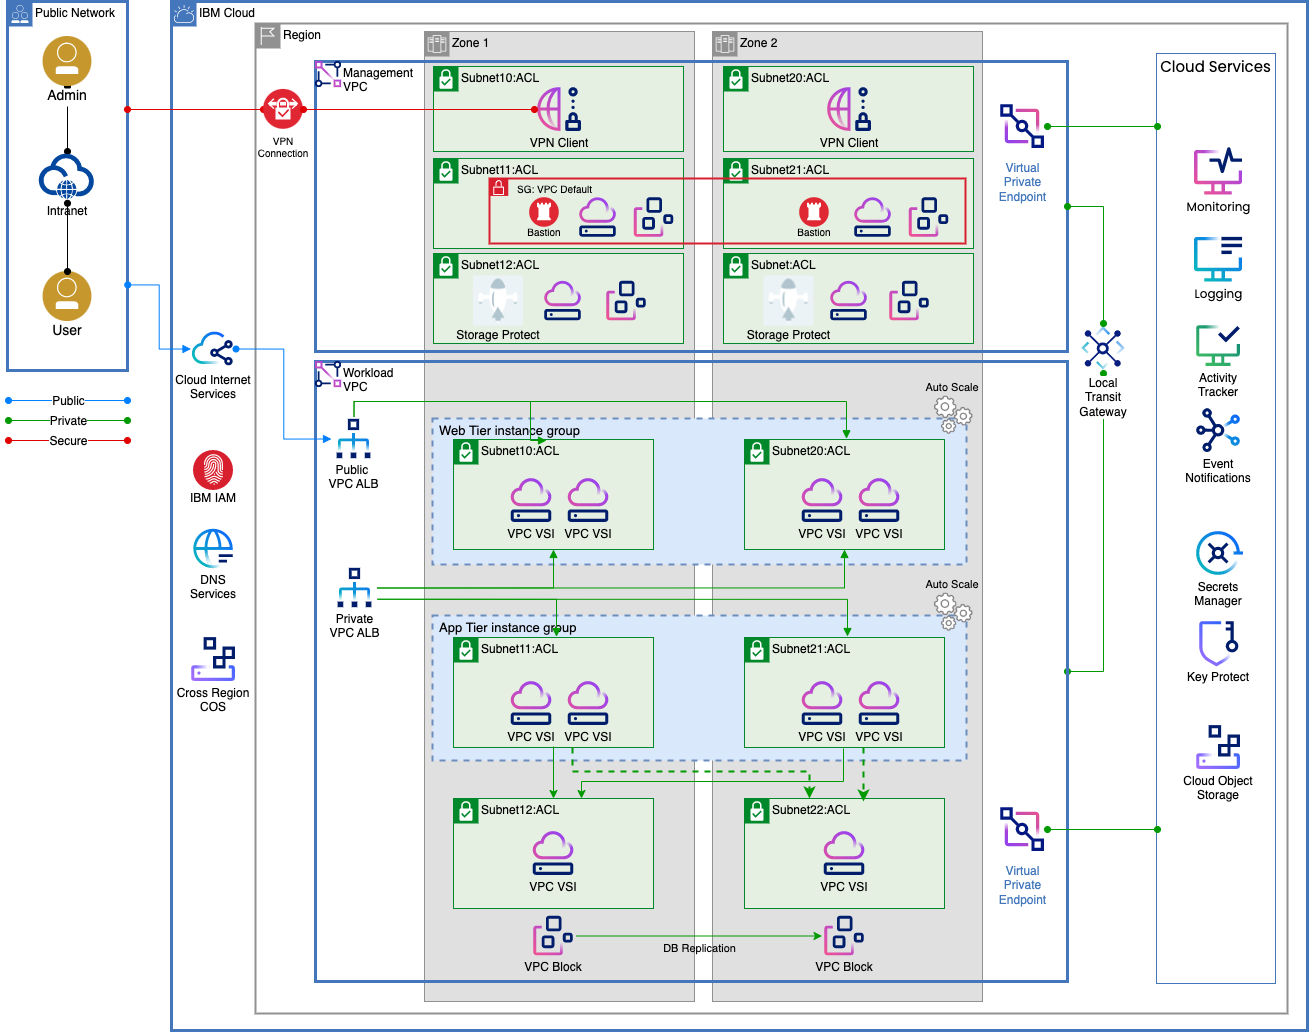
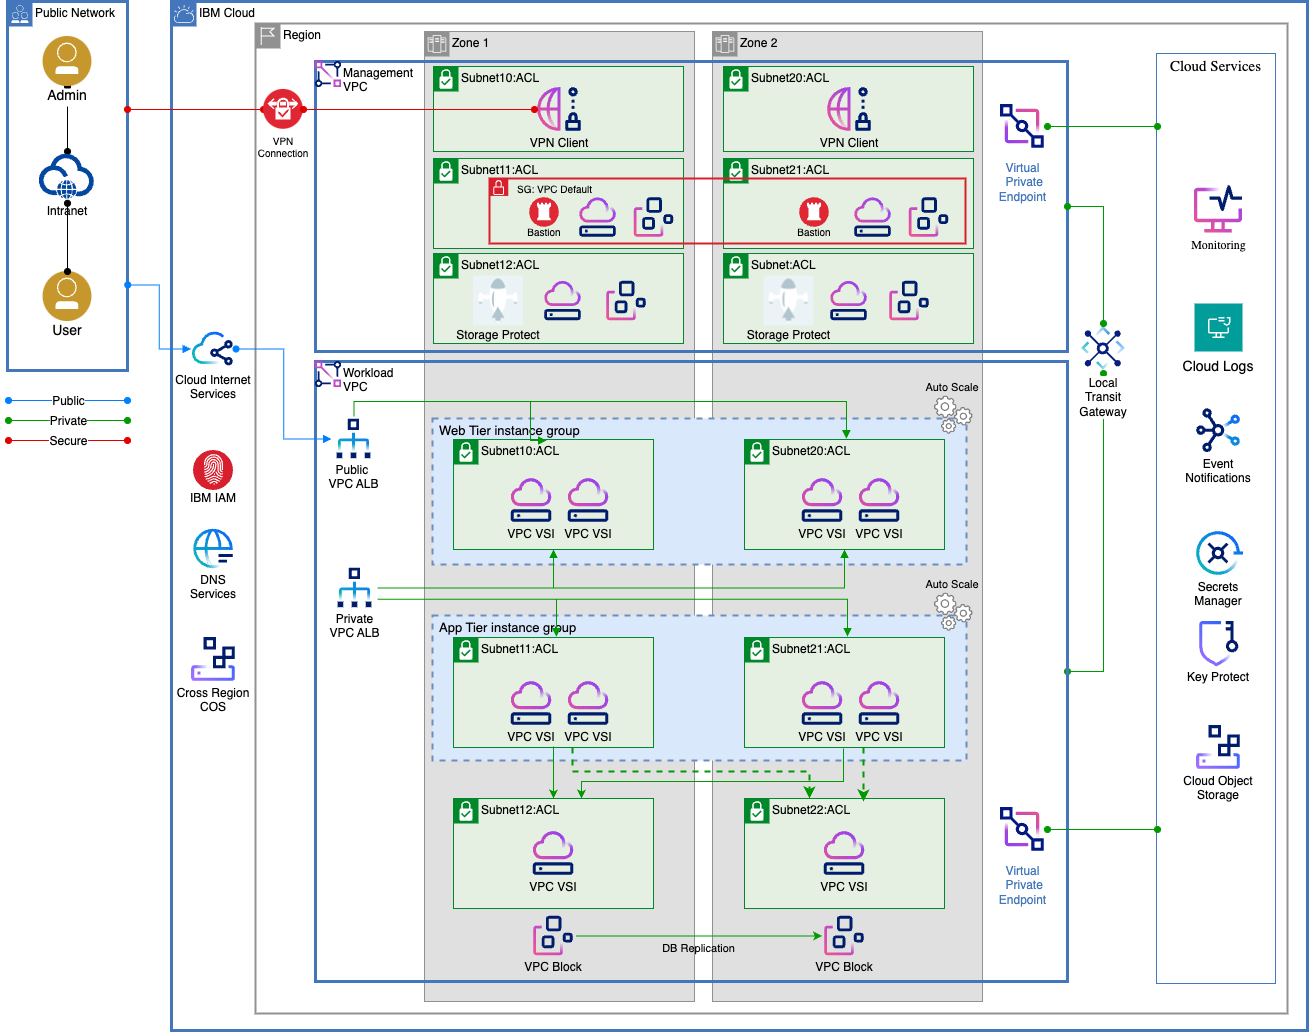
Next publish push (#16)
* Update: 27-01-2025

* Update: 27-01-2025

* Update: 27-01-2025

* Update: 27-01-2025

* Update: 29-01-2025

diff --git a/service-management-architecture.md b/service-management-architecture.md
@@ -2,7 +2,7 @@
 
 copyright:
   years: 2023
-lastupdated: "2023-12-18"
+lastupdated: "2023-01-29"
 
 subcollection: pattern-vpc-vsi-multizone-resiliency
 
@@ -29,9 +29,9 @@ The following sections summarize the architecture decisions for service manageme
 
 | Architecture decision | Requirement | Alternative | Decision | Rationale |
 | -------------- | -------------- | -------------- | -------------- | -------------- |
-| Log Monitoring of Cloud infrastructure and services | Monitor operational logs to detect issues that might impact the availability of the system and application. | - IBM Cloud Logging \n - BYO Logging Tool | IBM Cloud Logging | IBM Cloud Logging collects operational logs from applications, platform resources, and infrastructure and provides interfaces to view and analyze all logs. |
-| Log Monitoring of Web App | Monitor application operational logs to detect issues that might impact the availability of the app.| - IBM Cloud Logging \n - Application Logging Tool \n - BYO Logging Tool | IBM Cloud Logging + Application Logging Tool | Use the Application Logging Tool to send application logs to IBM Cloud Logging and aggregate application-specific log details. |
-| Log Monitoring of DB | Monitor database logs to detect issues that might impact the availability of the database.| - IBM Cloud Logging \n - DB Tools \n - BYO Logging Tool | IBM Cloud Logging + Application Logging Tool | Use the DB tools along with IBM Cloud Logging to get more DB-specific log information. |
+| Log Monitoring of Cloud infrastructure and services | Monitor operational logs to detect issues that might impact the availability of the system and application. | - IBM Cloud Logs \n - BYO Logging Tool | IBM Cloud Logs | IBM Cloud Logs collects operational logs from applications, platform resources, and infrastructure and provides interfaces to view and analyze all logs. |
+| Log Monitoring of Web App | Monitor application operational logs to detect issues that might impact the availability of the app.| - IBM Cloud Logs \n - Application Logging Tool \n - BYO Logging Tool | IBM Cloud Logs + Application Logging Tool | Use the Application Logging Tool to send application logs to IBM Cloud Logs and aggregate application-specific log details. |
+| Log Monitoring of DB | Monitor database logs to detect issues that might impact the availability of the database.| - IBM Cloud Logs \n - DB Tools \n - BYO Logging Tool | IBM Cloud Logs + Application Logging Tool | Use the DB tools along with IBM Cloud Logs to get more DB-specific log information. |
 {: caption="Architecture decisions for logging" caption-side="bottom"}
 
 ## Architecture decisions for auditing
@@ -39,7 +39,7 @@ The following sections summarize the architecture decisions for service manageme
 
 | Architecture decision | Requirement | Alternative | Decision | Rationale |
 | -------------- | -------------- | -------------- | -------------- | -------------- |
-| Audit Logging | Monitor audit logs to track changes to cloud resources and detect potential security problems. | IBM Cloud Activity Tracker \n - Hosted Event Search \n - Event Routing   | IBM Cloud Activity Tracker- Hosted Event Search | IBM Cloud Activity Tracker-Hosted Event Search provides interfaces to capture, store, view, search, and monitor user-initiated actions to provision, access, and manage IBM Cloud resources. |
+| Audit Logging | Monitor audit logs to track changes to cloud resources and detect potential security problems. | IBM Cloud Logs with IBM Cloud Activity Tracker Event Routing   | IBM Cloud Logs with IBM Cloud Activity Tracker Event Routing | IBM Cloud Logs with IBM Cloud Activity Tracker Event Routing provides an interface to capture, store, view, search, and monitor user-initiated actions to provision, access, and manage IBM Cloud resources. |
 {: caption="Architecture decisions for auditing" caption-side="bottom"}
 
 ## Architecture decisions for alerting
@@ -47,6 +47,6 @@ The following sections summarize the architecture decisions for service manageme
 
 | Architecture decision | Requirement | Alternative | Decision | Rationale |
 | -------------- | -------------- | -------------- | -------------- | -------------- |
-| Operational alerts | Provide a mechanism to identify and send notifications about operational issues that are found across application and infrastructure. | IBM Cloud Monitoring +  IBM Cloud Logging + Event Notifications | IBM Cloud Monitoring +  IBM Cloud Logging + Event Notifications | IBM Cloud Monitoring and IBM Cloud Logging support the configuration of alerts to detect operational issues and send notifications to targeted channels. \n Event Notifications are used to route the alert events to service destinations to automate response actions. |
-| Audit alerts | Provide a mechanism to identify and send notifications about issues that are found in audit logs. | IBM Cloud Activity Tracker + IBM Monitoring +  Event Notifications | IBM Cloud Activity Tracker + IBM Monitoring +  Event Notifications | IBM Activity Tracker supports the configuration of alerts to detect audit issues and send notifications to targeted channels. \n Event Notifications are used to route the alert events to service destinations to automate response actions.                            |
+| Operational alerts | Provide a mechanism to identify and send notifications about operational issues that are found across application and infrastructure. | IBM Cloud Monitoring +  IBM Cloud Logs + Event Notifications | IBM Cloud Monitoring +  IBM Cloud Logs + Event Notifications | IBM Cloud Monitoring and IBM Cloud Logs support the configuration of alerts to detect operational issues and send notifications to targeted channels. \n Event Notifications are used to route the alert events to service destinations to automate response actions. |
+| Audit alerts | Provide a mechanism to identify and send notifications about issues that are found in audit logs. | IBM Cloud Logs + IBM Monitoring +  Event Notifications | IBM Cloud Logs + IBM Monitoring +  Event Notifications | IBM Cloud Logs supports the configuration of alerts to detect audit issues and send notifications to targeted channels. \n Event Notifications are used to route the alert events to service destinations to automate response actions.                            |
 {: caption="Architecture decisions for alerting" caption-side="bottom"}

diff --git a/service-management-design.md b/service-management-design.md
@@ -2,7 +2,7 @@
 
 copyright:
   years: 2023
-lastupdated: "2023-12-18"
+lastupdated: "2023-01-29"
 
 subcollection: pattern-vpc-vsi-multizone-resiliency
 
@@ -37,41 +37,19 @@ Use IBM Cloud Monitoring to get a comprehensive view of the health of the Web Ap
 
 - Backup historical metrics that might be needed for auditing purposes by querying and copying the data to cross-regional Cloud Object Storage buckets that can be accessed from another region if a disaster occurs.
 
-## Logging design
+## Auditing and Logging design
 {: #logging-design}
 
-Use IBM Log Analysis to monitor operational logs for applications, platform resources, and infrastructure as follows:
+Use [IBM Cloud Logs](/docs/cloud-logs?topic=cloud-logs-about-cl) to monitor auditing and operational logs for applications, platform resources, and infrastructure.  IBM Cloud Logs provides the following capabilites:
 
-- Provision one IBM Logging instance in each region where the application is deployed to collect and monitor Platform Logs for Cloud services that are provisioned in that region. See [Configuring Platform Logs](/docs/log-analysis?topic=log-analysis-config_svc_logs) for details.
+- Customizable user interface for live streaming of log tailing, real-time troubleshooting issue alerts, and log archiving.
+- Use of logging agent to collect and send infrastructure and application logs to an IBM Cloud Logs instance directly.
+- Aggregated logs across environments and cloud providers.
+- Historical access to logs.
+- Highly available, scalable, and compliant with industry security standards.
+- Integrated with IBM Cloud IAM for user access management.
 
-- Install and configure logging agents on each of the VPC Virtual Servers that are used to deploy the web, app, and database tiers. See [Logging with Infrastructure](/docs/log-analysis?topic=log-analysis-infra_logging) for details. Use the [Ingestion REST API](/docs/log-analysis?topic=log-analysis-ingest) to get the application logs.
-
-- Use the Logging dashboard to view, analyze, and manage logs.
-
-- Define alerts for the conditions that you need to monitor and integrate with IBM Cloud Monitoring to send notifications and manage log alerts along with metrics alerts. See [Integrating with IBM Cloud Monitoring](/docs/log-analysis?topic=log-analysis-monitoring) for details.
-
-    Consider configuring streaming to forward logs to other tools such as data lakes or Security Information and Event Management (SIEM) for further analysis or threat detection and investigation. See [Streaming Data](/docs/log-analysis?topic=log-analysis-streaming) for details.
-    {: note}
-
-- Copy logs to IBM Cloud Object Storage to support \>30 days data search or data retention policy requirements. See [Configuring Archiving Logs to Cloud Object Storage](/docs/log-analysis?topic=log-analysis-archiving-ov) for details.
-
-## Auditing design
-{: #auditing-design}
-
-Use [IBM Cloud Activity Tracker](/docs/activity-tracker?topic=activity-tracker-getting-started) to capture and monitor audit logs for Web Applications that are deployed on VPC Virtual Servers, as follows:
-
-- Provision one IBM Cloud Activity Tracker instance in each region where the application is deployed to collect audit logs for IBM Cloud resources used by the application. See [Activity Tracker - Getting Started](/docs/activity-tracker?topic=activity-tracker-getting-started#gs_objectives) for details.
-
-- Install and configure logging agents on each of the VPC Virtual Servers that are used to deploy the web, app, and database tiers. See [Logging with Infrastructure](/docs/log-analysis?topic=log-analysis-infra_logging) for details.
-
-- Use the Logging dashboard to view, analyze, and manage logs.
-
-- Create alerts to get notifications when configuration changes are made to the IBM Cloud account and integrate with IBM Cloud Monitoring to send notifications and manage audit log alerts along with metrics alerts. See [Integrating with IBM Cloud Monitoring](/docs/activity-tracker?topic=activity-tracker-monitoring) for details.
-
-    Consider configuring streaming to forward logs to other tools such as data lakes or Security Information and Event Management (SIEM) for further analysis or threat detection and investigation. See [Streaming Data](/docs/activity-tracker?topic=activity-tracker-streaming) for details.
-    {: note}
-
-- Copy audit logs to IBM Cloud Object Storage to support \>30 days data search or data retention policy requirements. See [Configuring Archiving Logs to Cloud Object Storage](/docs/activity-tracker?topic=activity-tracker-archiving-ov) for details.
+See [Getting started with IBM Cloud Logs](docs/cloud-logs?topic=cloud-logs-getting-started) on provisioning and setting up IBM Cloud Logs for both auditing and application logging.
 
 ## Alerting design
 {: #alerting-design}

diff --git a/reference-architecture-web-app-multi-zone.md b/reference-architecture-web-app-multi-zone.md
@@ -2,7 +2,7 @@
 
 copyright:
   years: 2023
-lastupdated: "2023-12-18"
+lastupdated: "2023-01-29"
 
 keywords: # Not typically populated
 
@@ -112,6 +112,5 @@ The following represents a typical set of requirements for enterprise-ready web 
 |                    | [IBM Storage Protect](https://cloud.ibm.com/catalog/content/SPonIBMCloud-20c54034-d319-48c0-beb6-0b4adc54265c-global){: external}         | Database backups                                                                                                                      |
 |                    | [Cross-Region Cloud Object Storage Buckets](/docs/cloud-object-storage?topic=cloud-object-storage-endpoints#endpoints-geo)                                                                                    | Backup storage                                                                                                                       |
 | Service Management | [IBM Cloud Monitoring](/docs/monitoring?topic=monitoring-about-monitor)                                                                                                                             | Apps and operational monitoring                                                                                                      |
-|                    | [IBM Log Analysis](/docs/log-analysis?topic=log-analysis-getting-started)                                                                                                                           | Apps and operational logs                                                                                                             |
-|                    | [IBM Cloud Activity Tracker](/docs/activity-tracker?topic=activity-tracker-getting-started)                                                                                                         | Audit logs                                                                                                                            |
+|                    | [IBM Cloud Logs](/docs/cloud-logs?topic=cloud-logs-getting-started)                                                                                                                           | Audit events, Apps and operational logs                                                                                                             |
 {: caption="Web app multi-zone resiliency components" caption-side="bottom"}
